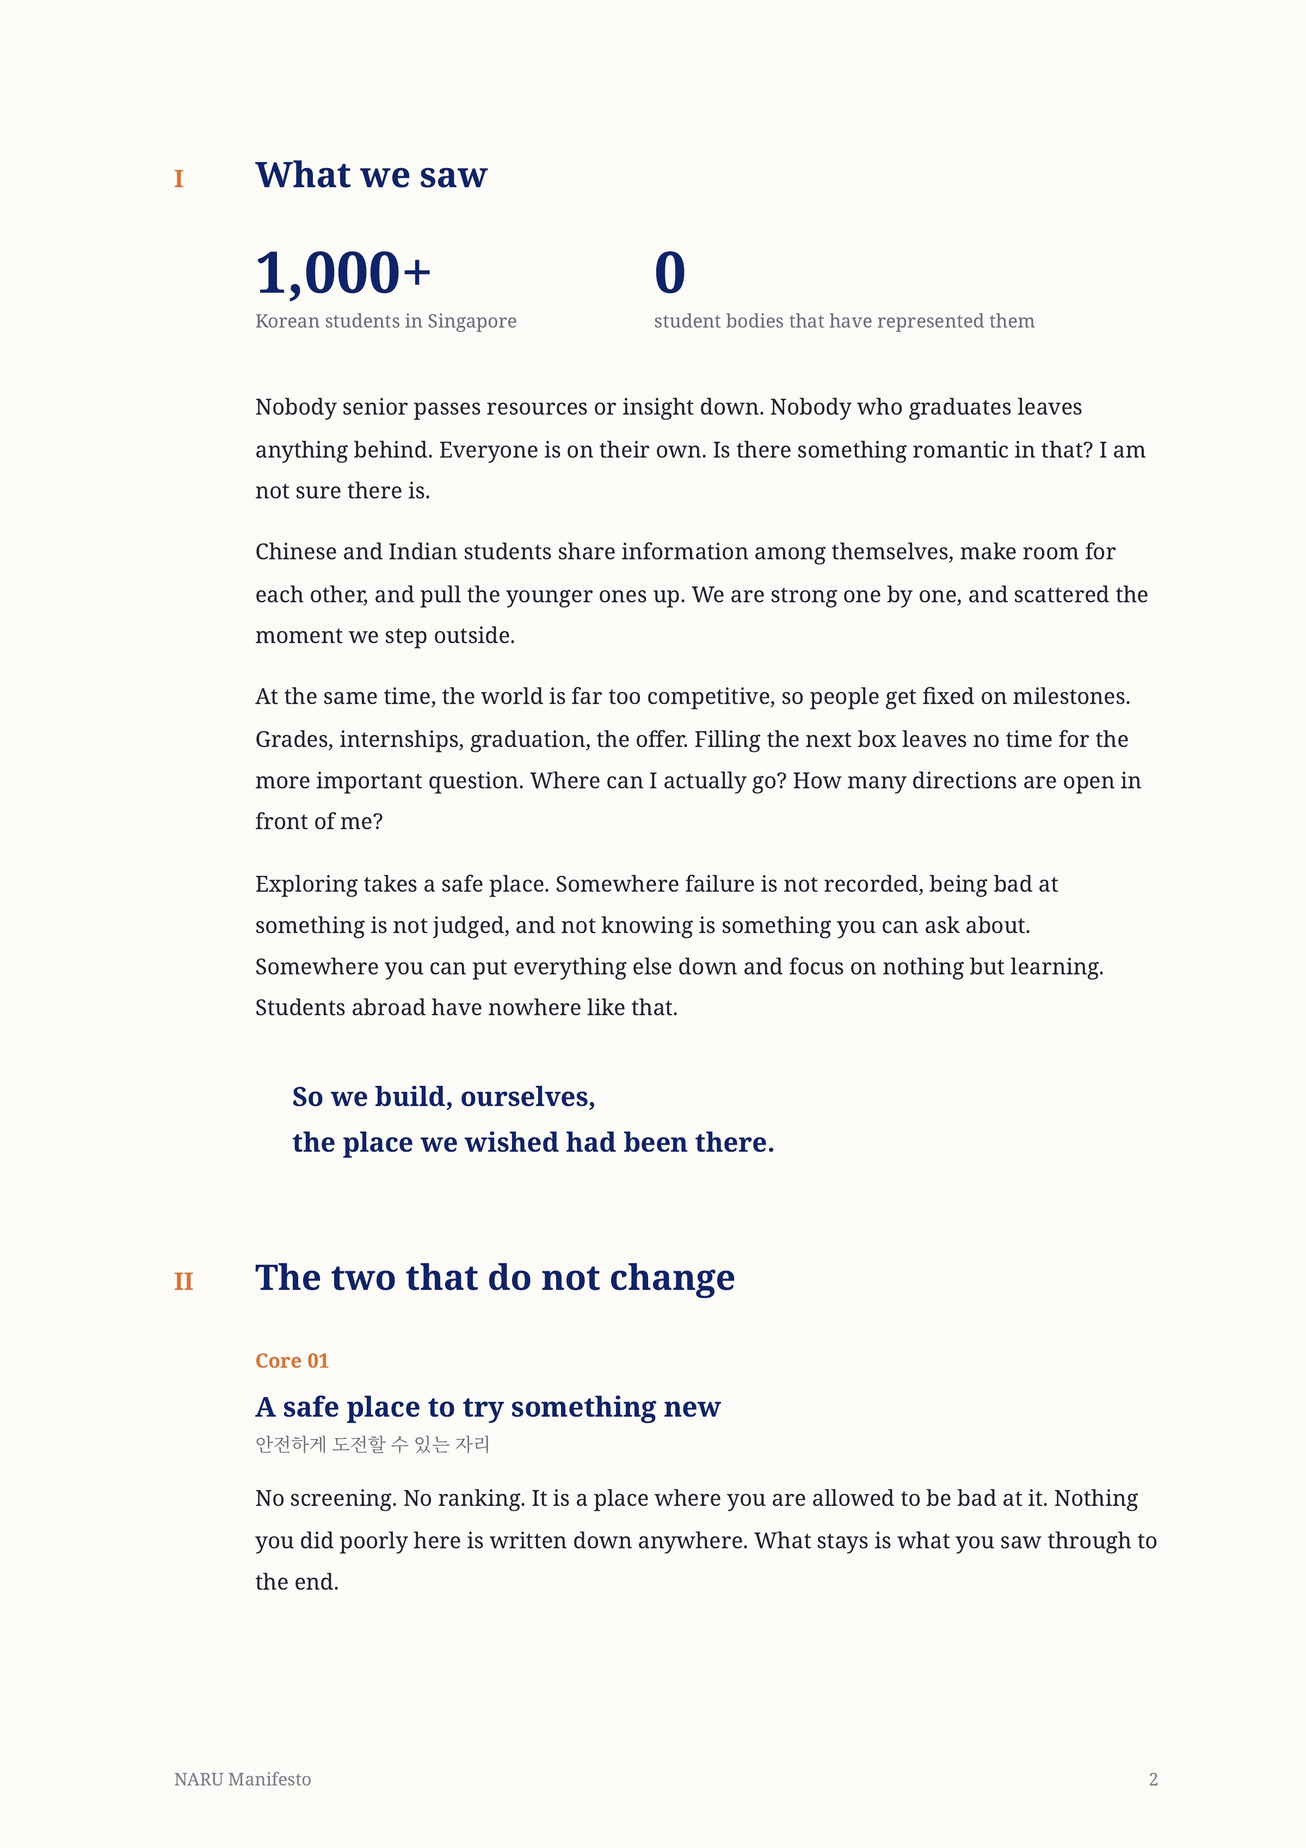
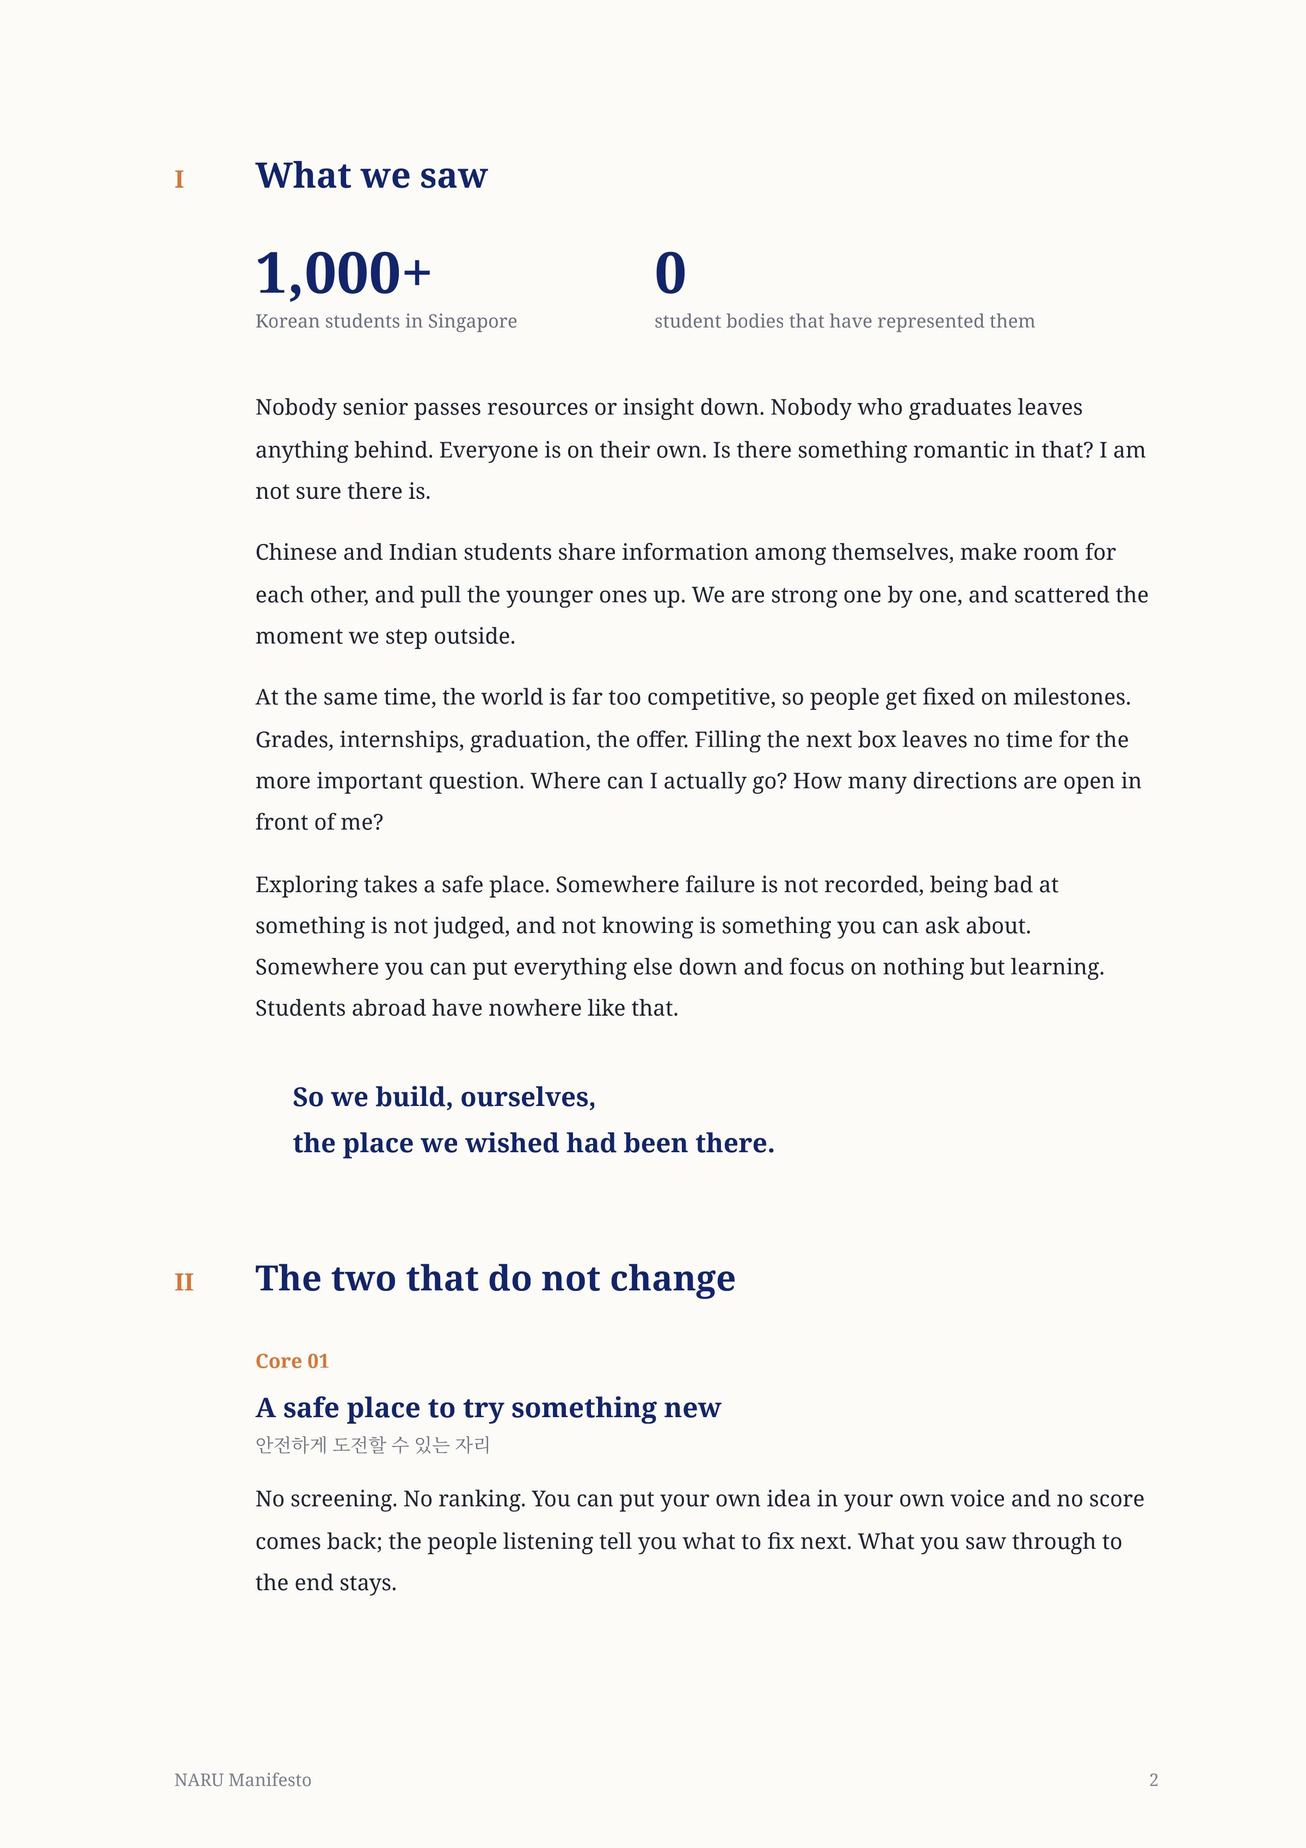
copy(naru): 코어 둘의 문장을 전사록의 설명에 맞춤, 지키는 것 두 칸 바꿈
brand 2장을 먼저 고치고 홈, 웹 매니페스토(KO, EN 쪽 이미지)를 같은 커밋에서 맞춤.
AI는 코어 문장에 넣지 않고(AI는 방법), 순서는 그대로.

diff --git a/data/naru.ts b/data/naru.ts
@@ -495,7 +495,7 @@ export const naru = {
     // 그 전 문장은 연습 쪽 절반이 빠져 차갑게 들렸습니다. brand 6장 "연습"도 같은 날 고쳤습니다.
     // 영문(같은 날, 사용자: "영어표현에서 나루터 이게 잘 사나?"): "나루터 할 때 나루"의 말맛은 영어로 옮겨지지 않아 뜻만 한 줄로 줍니다.
     // 같은 날 (사용자: "나루터 할 때 나루입니다. 는 좀 짜침", 후보 셋 중 1번): 첫 줄을 "처음부터 잘 젓는 사람은 없습니다."로. 전사록의
-    // "연습도 안 시켜 놓고 왜 못하냐고 하면 안 된다"를 순하게 옮긴 말이고, 코어 01 "못해도 되는 자리"와 이어집니다.
+    // "연습도 안 시켜 놓고 왜 못하냐고 하면 안 된다"를 순하게 옮긴 말이고, 코어 01(판단받지 않고 말해 보는 자리)과 이어집니다.
     // 같은 날 (사용자, 스크린숏: "너무 기니까 또 부담스럽다", 후보 셋 중 1번): 두 줄을 절반 길이로. "처음엔 다 서툽니다. / 건너기 전에 연습부터."
     titleLine1: { ko: "처음엔 다 서툽니다.", en: "Everyone starts out clumsy." },
     titleLine2: { ko: "건너기 전에 연습부터.", en: "Practice before you cross." },
@@ -743,14 +743,17 @@ export const naru = {
           {
             // DECIDED 2026-10-23 (humanizer 리뷰, brand 2장 코어 01): "~만 남기 때문에, 우리가 보는 것도 순위가 아니라 완주입니다"를
             // 정본 문장(대신 끝까지 해본 것은 남는다)으로 되돌렸습니다. 한 문장에 순위가 두 번, 대비 문형이 겹쳤습니다.
-            ko: "스크리닝도 순위도 없는, 못해도 되는 자리입니다. 여기서 잘하지 못한 것은 어디에도 남지 않고, 끝까지 해본 것은 남습니다.",
-            en: "With no screening and no ranking, this is a place where doing badly is allowed. Nothing you do poorly here is kept anywhere, but what you see through to the end stays.",
+            // DECIDED 2026-10-30 (사용자: 전사록의 코어 설명과 다르다, brand 2장을 같은 커밋에서 바꿈): 판단받지 않고 자기 목소리로 말해 보는 자리로.
+            // 그 전: "스크리닝도 순위도 없는, 못해도 되는 자리입니다. 여기서 잘하지 못한 것은 어디에도 남지 않고, 끝까지 해본 것은 남습니다."
+            ko: "스크리닝도 순위도 없습니다. 자기 아이디어를 자기 목소리로 꺼내도 점수로 돌아오지 않고, 듣는 사람은 다음에 고칠 점을 말합니다. 끝까지 해본 것은 남습니다.",
+            en: "No screening, no ranking. You can put your own idea in your own voice and no score comes back; the people listening tell you what to fix next. What you see through to the end stays.",
           },
         ],
         keeps: {
           // DECIDED 2026-10-10 (중복 브리프 C5): "스크리닝 없이"와 "순위 대신"을 뺐습니다. 바로 위 본문이 둘 다 말합니다.
-          ko: "전원에게 실제 기업의 이슈를 줍니다. 부문별로 시상하고, 평가는 결과물보다 과정에 무게를 둡니다.",
-          en: "A real company issue for everyone. Awards by category, and the weight sits on the process.",
+          // DECIDED 2026-10-30 (사용자): 두 코어의 지키는 것이 엇갈려 있어 바꿨습니다. 스크리닝 없음(학점, 이력서)은 코어 01, 전원에게 이슈는 코어 02.
+          ko: "학점도 이력서도 보지 않습니다. 부문별로 시상하고, 평가는 결과물보다 과정에 무게를 둡니다.",
+          en: "No grades, no CV. Awards by category, and the weight sits on the process.",
         },
       },
       {
@@ -766,14 +769,17 @@ export const naru = {
             // DECIDED 2026-10-20 (사용자: "모든 곳들에 적용", brand 2장을 같은 커밋에서 바꿈): 셋 나열을 한 문장으로.
             // DECIDED 2026-10-21 (사용자: "나루 page 문장이 너무 많다", 더 과감하게): 두 문단을 한 문단으로. 둘째 문단
             // ("그 앞에서 자기 판단으로 무언가를 만들고, 그 경험을 증명하는 실물을 손에 쥐고 나갑니다.")을 여기에 합쳤습니다.
-            ko: "모의가 아니라 진짜 앞에 섭니다. 실명이 박힌 기업이 아직 답을 모르는 문제를 실제로 그 일을 하는 사람 앞에서 자기 판단으로 풀고, 그 경험을 증명하는 실물을 손에 쥐고 나갑니다.",
-            en: "Not a mock run. You take a problem a named company has no answer to yet, work it on your own judgement in front of the person who actually does that work, and leave holding proof of it.",
+            // DECIDED 2026-10-30 (사용자: 전사록에 맞춤, AI는 빼고): 혼자 만든 것으로는 증명이 안 되고 써 주고 들어 주는 사람이 있어야 한다는 뜻으로.
+            // 그 전: "모의가 아니라 진짜 앞에 섭니다. 실명이 박힌 기업이 아직 답을 모르는 문제를 실제로 그 일을 하는 사람 앞에서 자기 판단으로 풀고, 그 경험을 증명하는 실물을 손에 쥐고 나갑니다."
+            ko: "혼자 만든 것만으로는 증명이 되지 않습니다. 실명이 박힌 기업이 아직 답을 모르는 이슈를 두고 직접 만들고, 실제로 그 일을 하는 사람이 써 보고 들어 준 기록까지 손에 쥐고 나갑니다.",
+            en: "Something you built alone does not prove much. You build against an issue a named company has no answer to yet, and leave holding a record of people who actually do that work trying it and hearing it out.",
           },
         ],
         keeps: {
           // DECIDED 2026-10-10 (중복 브리프 C6): "증명은 마지막 날 그 기업 앞에서 합니다"를 뺐습니다. 히어로와 프로그램 리드가 말합니다.
-          ko: "학점도 이력서도 보지 않습니다. 실명이 박힌 기업의 이슈 하나가 전부입니다.",
-          en: "No grades, no CV. One issue from a named company is all there is.",
+          // DECIDED 2026-10-30 (사용자): 코어 01과 바꿈. 마지막 날 성과 공유회는 히어로와 프로그램 리드가 말해서 넣지 않습니다(brand 5장, 두 번까지).
+          ko: "전원에게 실제 기업의 이슈를 줍니다.",
+          en: "A real company issue for everyone.",
         },
       },
     ],

diff --git a/docs/manifesto-web/ko.html b/docs/manifesto-web/ko.html
@@ -81,9 +81,9 @@ h3 { font-weight: 700; color: var(--navy); font-size: 12.5pt; line-height: 1.5; 
   <div class="head"><span class="num">II</span><h2>변하지 않는 두 개</h2></div>
   <div class="body">
     <div class="core"><div class="label">코어 01</div><h3>안전하게 도전할 수 있는 자리</h3><p class="en">A safe place to try something new</p>
-      <p>스크리닝하지 않는다. 순위를 매기지 않는다. 못해도 되는 자리다. 여기서 잘하지 못한 것은 어디에도 기록되지 않는다. 대신 끝까지 해본 것은 남는다.</p></div>
+      <p>스크리닝하지 않는다. 순위를 매기지 않는다. 자기 아이디어를 자기 목소리로 꺼내도 점수로 돌아오지 않고, 듣는 사람은 다음에 고칠 점을 말한다. 끝까지 해본 것은 남는다.</p></div>
     <div class="core"><div class="label">코어 02</div><h3>자기 가치를 증명해 보는 경험</h3><p class="en">A chance to prove your own worth</p>
-      <p>모의가 아니라 진짜 앞에 세운다. 실명이 박힌 기업이 아직 답을 모르는 문제를 두고, 실제로 그 일을 하는 사람 앞에서 자기 판단으로 무언가를 만들고 눈높이를 맞춰 설명해 본다. 그리고 그 경험을 증명하는 실물을 손에 쥐고 나간다.</p></div>
+      <p>혼자 만든 것만으로는 증명이 되지 않는다. 실명이 박힌 기업이 아직 답을 모르는 이슈를 두고 직접 만들고, 실제로 그 일을 하는 사람이 써 보고 들어 준 기록까지 손에 쥐고 나간다.</p></div>
     <p>문턱이 낮아야 커뮤니티가 커지고, 롤모델이 있어야 자란다. 둘 중 하나만 있으면 친목 모임이나 엘리트 클럽으로 수렴한다. 둘을 동시에 지키는 것이 이 그룹의 일이고, 부딪힐 때 어느 쪽으로 기울일지 매번 판단하는 것이 실력이다.</p>
   </div>
 </section>

diff --git a/docs/manifesto-web/en.html b/docs/manifesto-web/en.html
@@ -81,9 +81,9 @@ h3 { font-weight: 700; color: var(--navy); font-size: 12.5pt; line-height: 1.5; 
   <div class="head"><span class="num">II</span><h2>The two that do not change</h2></div>
   <div class="body">
     <div class="core"><div class="label">Core 01</div><h3>A safe place to try something new</h3><p class="en">안전하게 도전할 수 있는 자리</p>
-      <p>No screening. No ranking. It is a place where you are allowed to be bad at it. Nothing you did poorly here is written down anywhere. What stays is what you saw through to the end.</p></div>
+      <p>No screening. No ranking. You can put your own idea in your own voice and no score comes back; the people listening tell you what to fix next. What you saw through to the end stays.</p></div>
     <div class="core"><div class="label">Core 02</div><h3>A chance to prove your own worth</h3><p class="en">자기 가치를 증명해 보는 경험</p>
-      <p>Not a simulation. We put you in front of the real thing. With a problem a named company does not yet know the answer to, you build something on your own judgement in front of people who actually do that work, and explain it at the level of the person listening. Then you walk out holding something real that proves the experience.</p></div>
+      <p>Something you built alone does not prove much. With an issue a named company does not yet know the answer to, you build it yourself, and walk out holding a record of people who actually do that work trying it and hearing it out.</p></div>
     <p>A community grows when the barrier is low, and it matures when there are role models. With only one of the two it collapses into a social club or an elite club. Holding both at once is this group's work, and judging which way to lean when they pull against each other is the skill.</p>
   </div>
 </section>

diff --git a/components/naru/ManifestoViewer.tsx b/components/naru/ManifestoViewer.tsx
@@ -18,7 +18,7 @@ import { BODY, META } from "@/components/ui/typography";
 
 const PAGES = { ko: 6, en: 7 } as const;
 // 이미지를 다시 뽑으면 올립니다. 파일 이름이 같아 브라우저가 옛 쪽을 보여 주지 않게.
-const V = "20261025b";
+const V = "20261030";
 // 뽑은 이미지의 크기. 2026-10-25 (사용자: "너무 흐린데"): 1400px 한 벌을 next/image가 다시 줄이고 눌러 글자가 흐렸습니다.
 // 넘기는 줄은 1000px(-s-), 전체 화면은 2400px 원본을 최적화 없이(unoptimized) 그대로 씁니다.
 const SMALL = { w: 1000, h: 1416 };

diff --git a/docs/brand.md b/docs/brand.md
@@ -1,6 +1,6 @@
 # 나루 브랜드 정본
 
-이 파일은 나루와 크로싱 서울의 브랜드가 무엇인지 적은 유일한 정본입니다. 사이트의 글, 그림, 구조, 순서를 바꾸기 전에 읽습니다. 매니페스토(`12월 빌더톤/그룹 기획/매니페스토_나루.pdf`), Overview, 로고 가이드 v2, 대상별 프레이밍, 모객 콘텐츠 전략에서 뽑았고, 서로 어긋나는 곳은 여기 적힌 것이 이깁니다. 마지막 손질 2026-10-26(같은 날 3장 원칙 2의 채널 문장과 4장 첫 문장: 홈은 나루, 크로싱 서울은 /crossing. 6장 예외 C의 자리. 그 전 같은 날: 7장 이슈와 문제, 같은 날 미션의 멘토 찾아가기를 날마다 팀이 함께로, 예약 시점과 멘토 미리 보기, 진척 PDF는 고친 1장, 같은 날 10장 글자 크기 넷과 사이트 UI를 뉴트럴 바탕 + 강조 블루로). 그 전 2026-10-25(1장 정의문을 두 문장으로).
+이 파일은 나루와 크로싱 서울의 브랜드가 무엇인지 적은 유일한 정본입니다. 사이트의 글, 그림, 구조, 순서를 바꾸기 전에 읽습니다. 매니페스토(`12월 빌더톤/그룹 기획/매니페스토_나루.pdf`), Overview, 로고 가이드 v2, 대상별 프레이밍, 모객 콘텐츠 전략에서 뽑았고, 서로 어긋나는 곳은 여기 적힌 것이 이깁니다. 마지막 손질 2026-10-30(2장 코어 둘의 문장을 전사록의 설명에 맞춤). 그 전 2026-10-26(같은 날 3장 원칙 2의 채널 문장과 4장 첫 문장: 홈은 나루, 크로싱 서울은 /crossing. 6장 예외 C의 자리. 그 전 같은 날: 7장 이슈와 문제, 같은 날 미션의 멘토 찾아가기를 날마다 팀이 함께로, 예약 시점과 멘토 미리 보기, 진척 PDF는 고친 1장, 같은 날 10장 글자 크기 넷과 사이트 UI를 뉴트럴 바탕 + 강조 블루로). 그 전 2026-10-25(1장 정의문을 두 문장으로).
 
 ## 0. 쓰는 법
 
@@ -27,12 +27,12 @@
 무엇이 바뀌어도 이 둘은 바뀌지 않습니다. 이벤트, AI, 기간, 형식은 전부 방법입니다.
 
 **CORE 01 안전하게 도전할 수 있는 자리** (A safe place to try something new)
-스크리닝하지 않는다. 순위를 매기지 않는다. 못해도 되는 자리다. 여기서 잘하지 못한 것은 어디에도 기록되지 않는다. 대신 끝까지 해본 것은 남는다.
+스크리닝하지 않는다. 순위를 매기지 않는다. 자기 아이디어를 자기 목소리로 꺼내도 점수로 돌아오지 않고, 듣는 사람은 다음에 고칠 점을 말한다. 끝까지 해본 것은 남는다. (2026-10-30 사용자: 전사록에서 직접 설명한 코어에 맞춤. 실패가 기록되지 않는다는 말보다 판단받지 않고 자기 목소리로 말해 보는 자리가 중심. 그 전: "못해도 되는 자리다. 여기서 잘하지 못한 것은 어디에도 기록되지 않는다. 대신".)
 
 **CORE 02 자기 가치를 증명해 보는 경험** (A chance to prove your own worth)
-모의가 아니라 진짜 앞에 세운다. 실명이 박힌 기업이 아직 답을 모르는 문제를 두고, 실제로 그 일을 하는 사람 앞에서 자기 판단으로 무언가를 만들고 눈높이를 맞춰 설명해 본다. 그리고 그 경험을 증명하는 실물을 손에 쥐고 나간다. (2026-10-20 사용자: 셋 나열의 조각문을 한 문장으로. 뜻은 그대로. 매니페스토는 v6(2026-10-21)에서 맞췄다.)
+혼자 만든 것만으로는 증명이 되지 않는다. 실명이 박힌 기업이 아직 답을 모르는 이슈를 두고 직접 만들고, 실제로 그 일을 하는 사람이 써 보고 들어 준 기록까지 손에 쥐고 나간다. (2026-10-30 사용자: 전사록에 맞춤. 혼자 만든 것으로는 증명이 안 되고, 써 주고 들어 주는 사람이 있어야 증명이 된다. AI는 방법이라 코어 문장에 넣지 않는다. 그 전: "모의가 아니라 진짜 앞에 세운다. ... 자기 판단으로 무언가를 만들고 눈높이를 맞춰 설명해 본다. 그리고 그 경험을 증명하는 실물을 손에 쥐고 나간다." 웹 매니페스토와 정본 PDF의 조판 스크립트(그룹 기획/소스/매니페스토_build.py)는 같은 날 맞췄고, 정본 PDF는 다시 뽑기 전까지 그 전 문장.)
 
-(표기: 사이트와 매니페스토 v6 모두 "자리", "증명해 보는", "모의가 아니라"를 씁니다. 연습이라는 말은 나루터의 것입니다, 6장.)
+(표기: 사이트와 매니페스토 모두 "자리", "증명해 보는"을 씁니다. 연습이라는 말은 나루터의 것이라 코어에 쓰지 않습니다, 6장.)
 
 **성장 모델**: 문턱이 낮아야 커뮤니티가 커지고, 롤모델이 있어야 자란다. 문턱만 낮으면 친목 모임이 되고, 롤모델만 있으면 소수의 클럽이 된다. 둘을 동시에 지키는 것이 이 그룹의 일이고, 부딪힐 때 어느 쪽으로 기울일지 매번 판단하는 것이 실력이다.
 

diff --git a/CHANGELOG.md b/CHANGELOG.md
@@ -8,6 +8,7 @@
 
 ### 2026-10
 
+- [2026-10-30 코어 둘의 문장을 전사록의 설명에 맞춤](#2026-10-30-core-wording)
 - [2026-10-28 함께해 주신 분들에서 LinkedIn으로, 한장환 님 Oracle](#2026-10-28-thanks-linkedin)
 - [2026-10-28 멘토 한 분의 호칭과 사진](#2026-10-28-mentor-photo)
 - [2026-10-27 폰 Day 상자 크기 맞춤, 스와이프에 화면 고정](#2026-10-27-phone-days)
@@ -432,6 +433,17 @@
 ### 2026-06
 
 - [2026-06-15 Design-revamp polish cycle](#changelog-june-15-2026)
+
+---
+
+<a id="2026-10-30-core-wording"></a>
+## 2026-10-30 코어 둘의 문장을 전사록의 설명에 맞춤
+- 범위: docs/brand.md(2장), data/naru.ts(why.cores), docs/manifesto-web/{ko,en}.html, public/naru/manifesto/(KO 2쪽, EN 2, 3쪽과 썸네일), ManifestoViewer.tsx(이미지 버전), 그룹 기획/소스/매니페스토_build.py(레포 밖)
+- 한 것: 사용자 요청("전사록에서 내가 설명하는 코어랑 약간 다름"). 코어 검증 인터뷰 넷(10/15~10/19)의 설명에 맞췄습니다. 코어 01은 실패가 기록되지 않는다는 말에서 판단받지 않고 자기 목소리로 말해 보는 자리로, 코어 02는 혼자 만든 것으로는 증명이 안 되고 써 보고 들어 준 사람이 있어야 한다는 뜻으로 고쳤습니다. 사용자 결정: AI는 코어 문장에 넣지 않음(brand 2장, AI는 방법), 순서는 그대로.
+- 이어서: 홈의 "그래서 지키는 것" 두 칸이 엇갈려 있어 바꿨습니다(학점, 이력서는 코어 01, 전원에게 이슈는 코어 02). 마지막 날 성과 공유회는 히어로와 프로그램 리드가 말해서 넣지 않았습니다(brand 5장, 같은 사실 두 번까지).
+- 근거: brand 2장(코어 둘), 0장과 11장(정본부터 바꾸고 같은 커밋), 6장(연습은 나루터의 말이라 쓰지 않음).
+- 검증: tsc 통과. 웹 매니페스토는 KO 6쪽, EN 7쪽 그대로이고, 바뀐 쪽은 코어 글 말고는 조판이 같음을 눈으로 대 봄. 정본 PDF는 스크립트만 고쳤고 다시 뽑지 않음(playwright 없음).
+- 커밋: 이 항목과 같은 커밋
 
 ---
 
